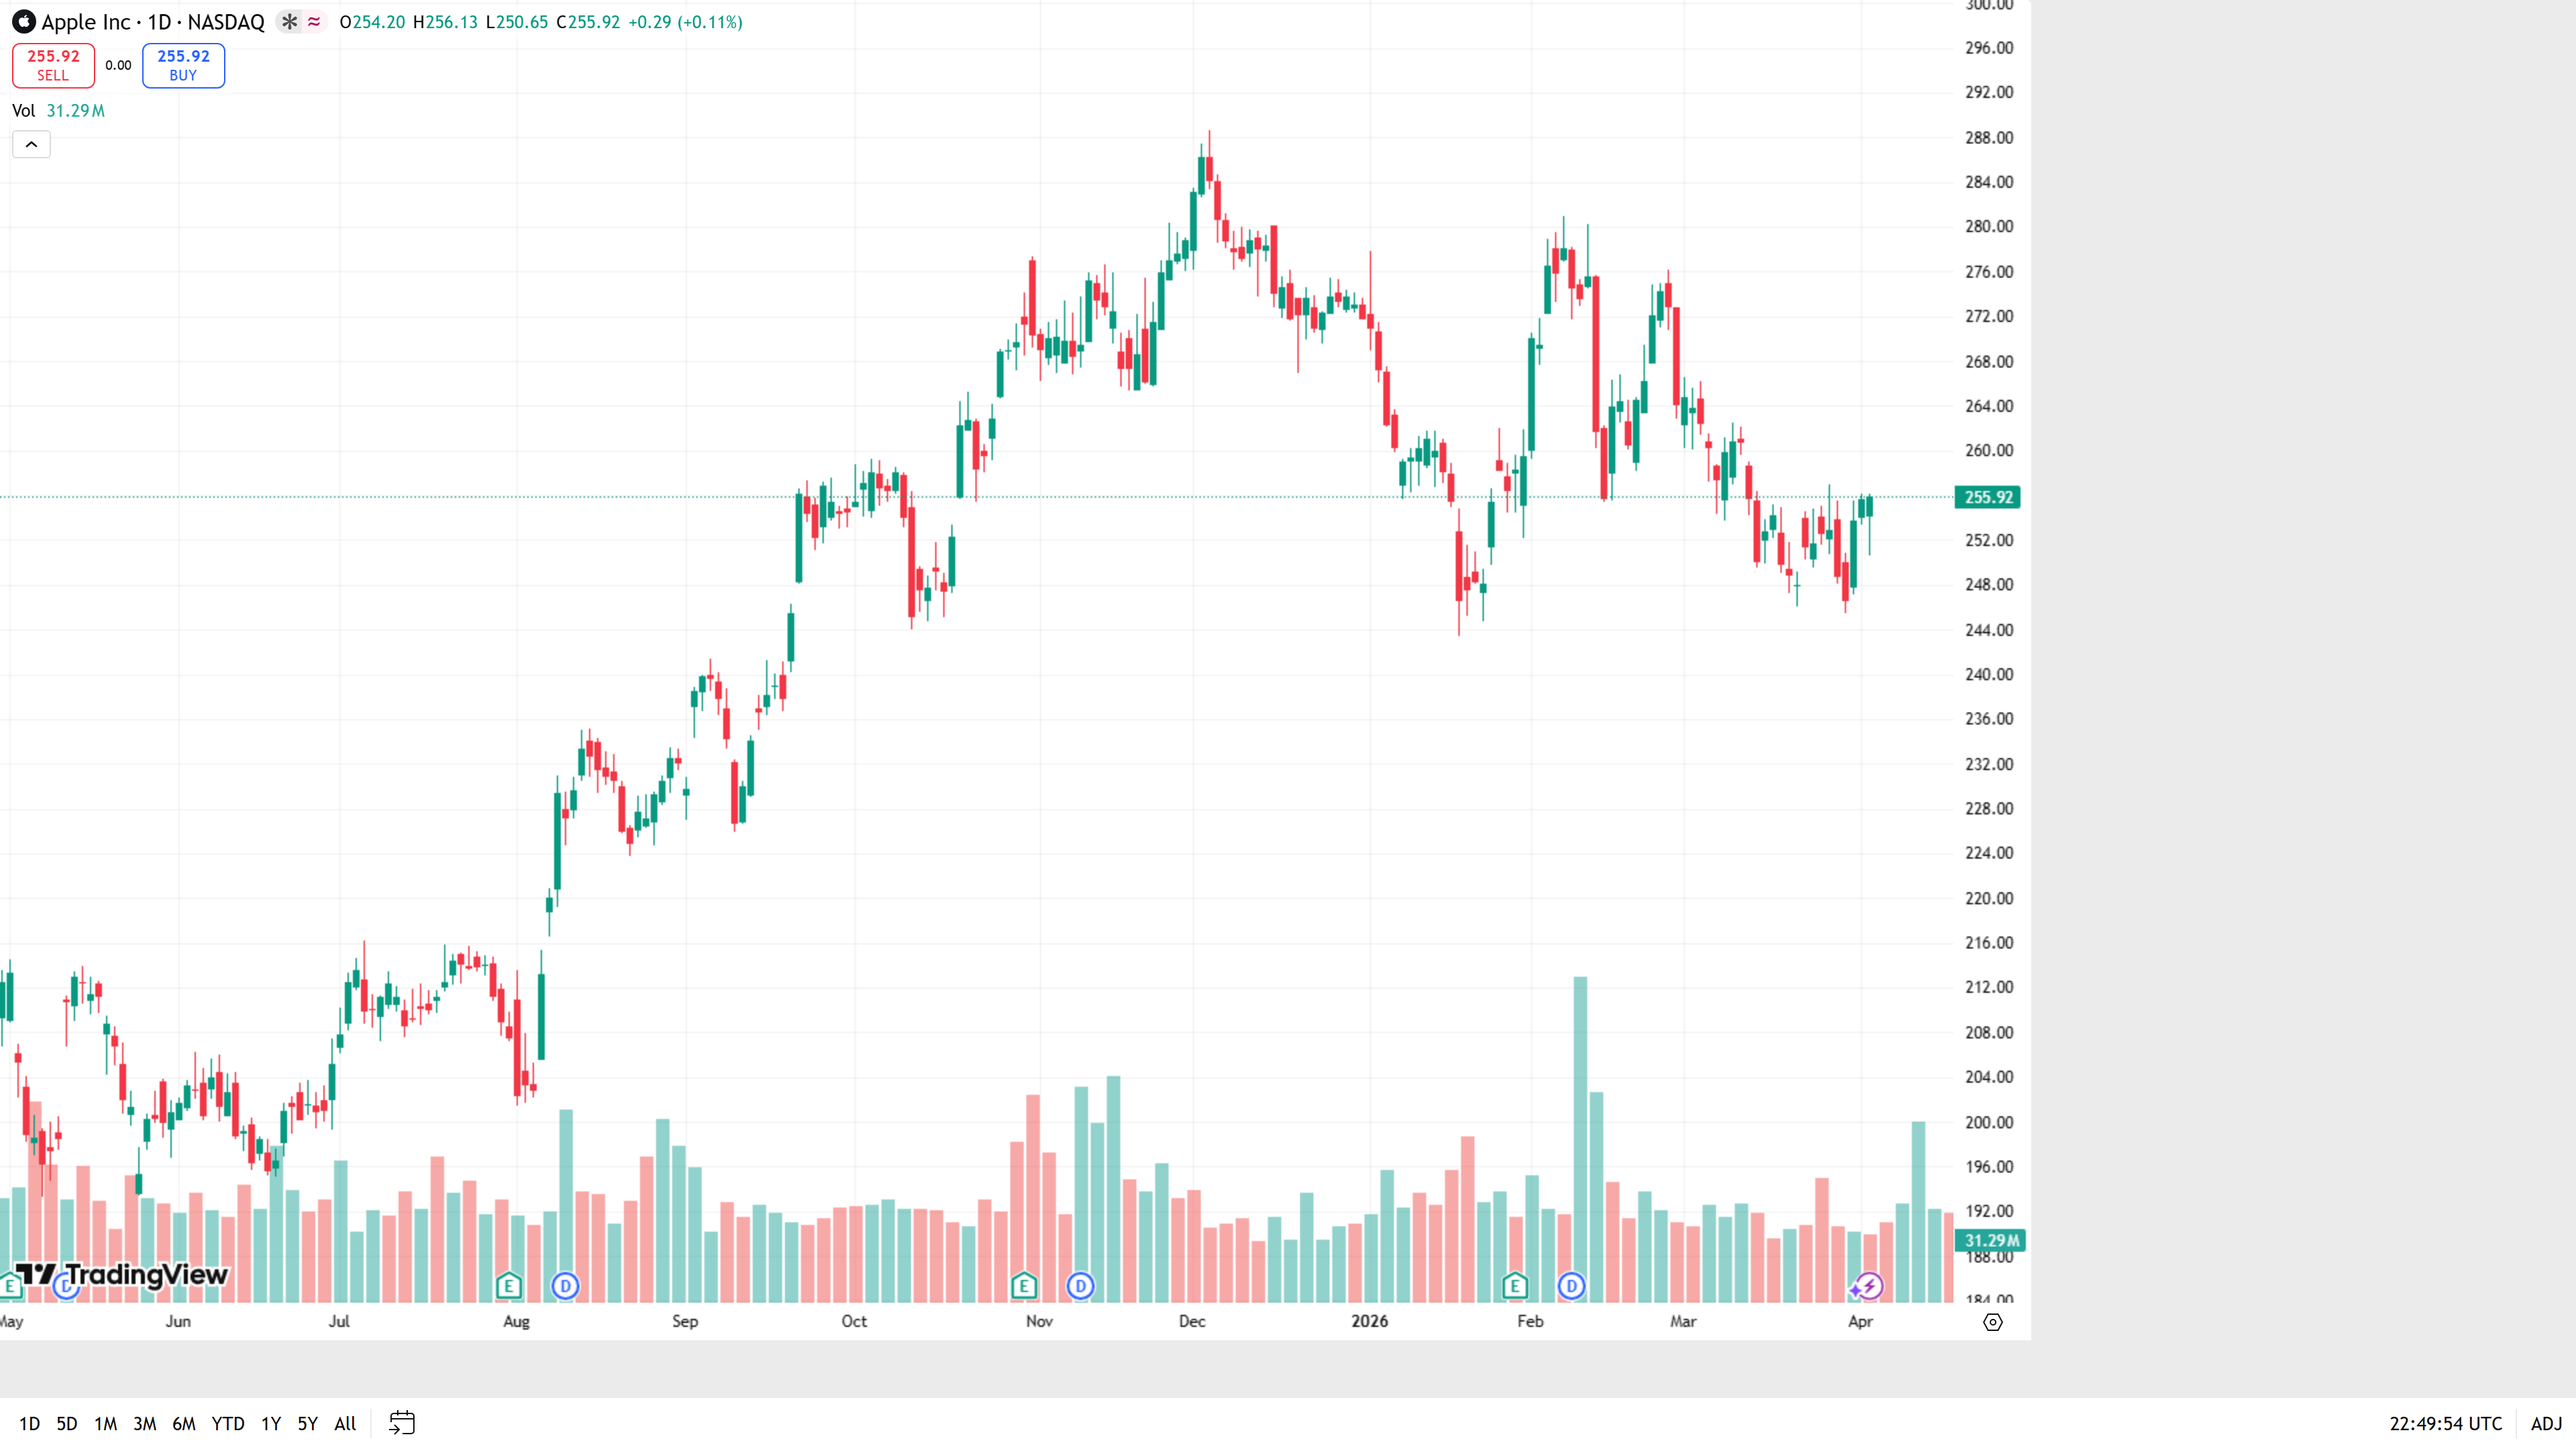
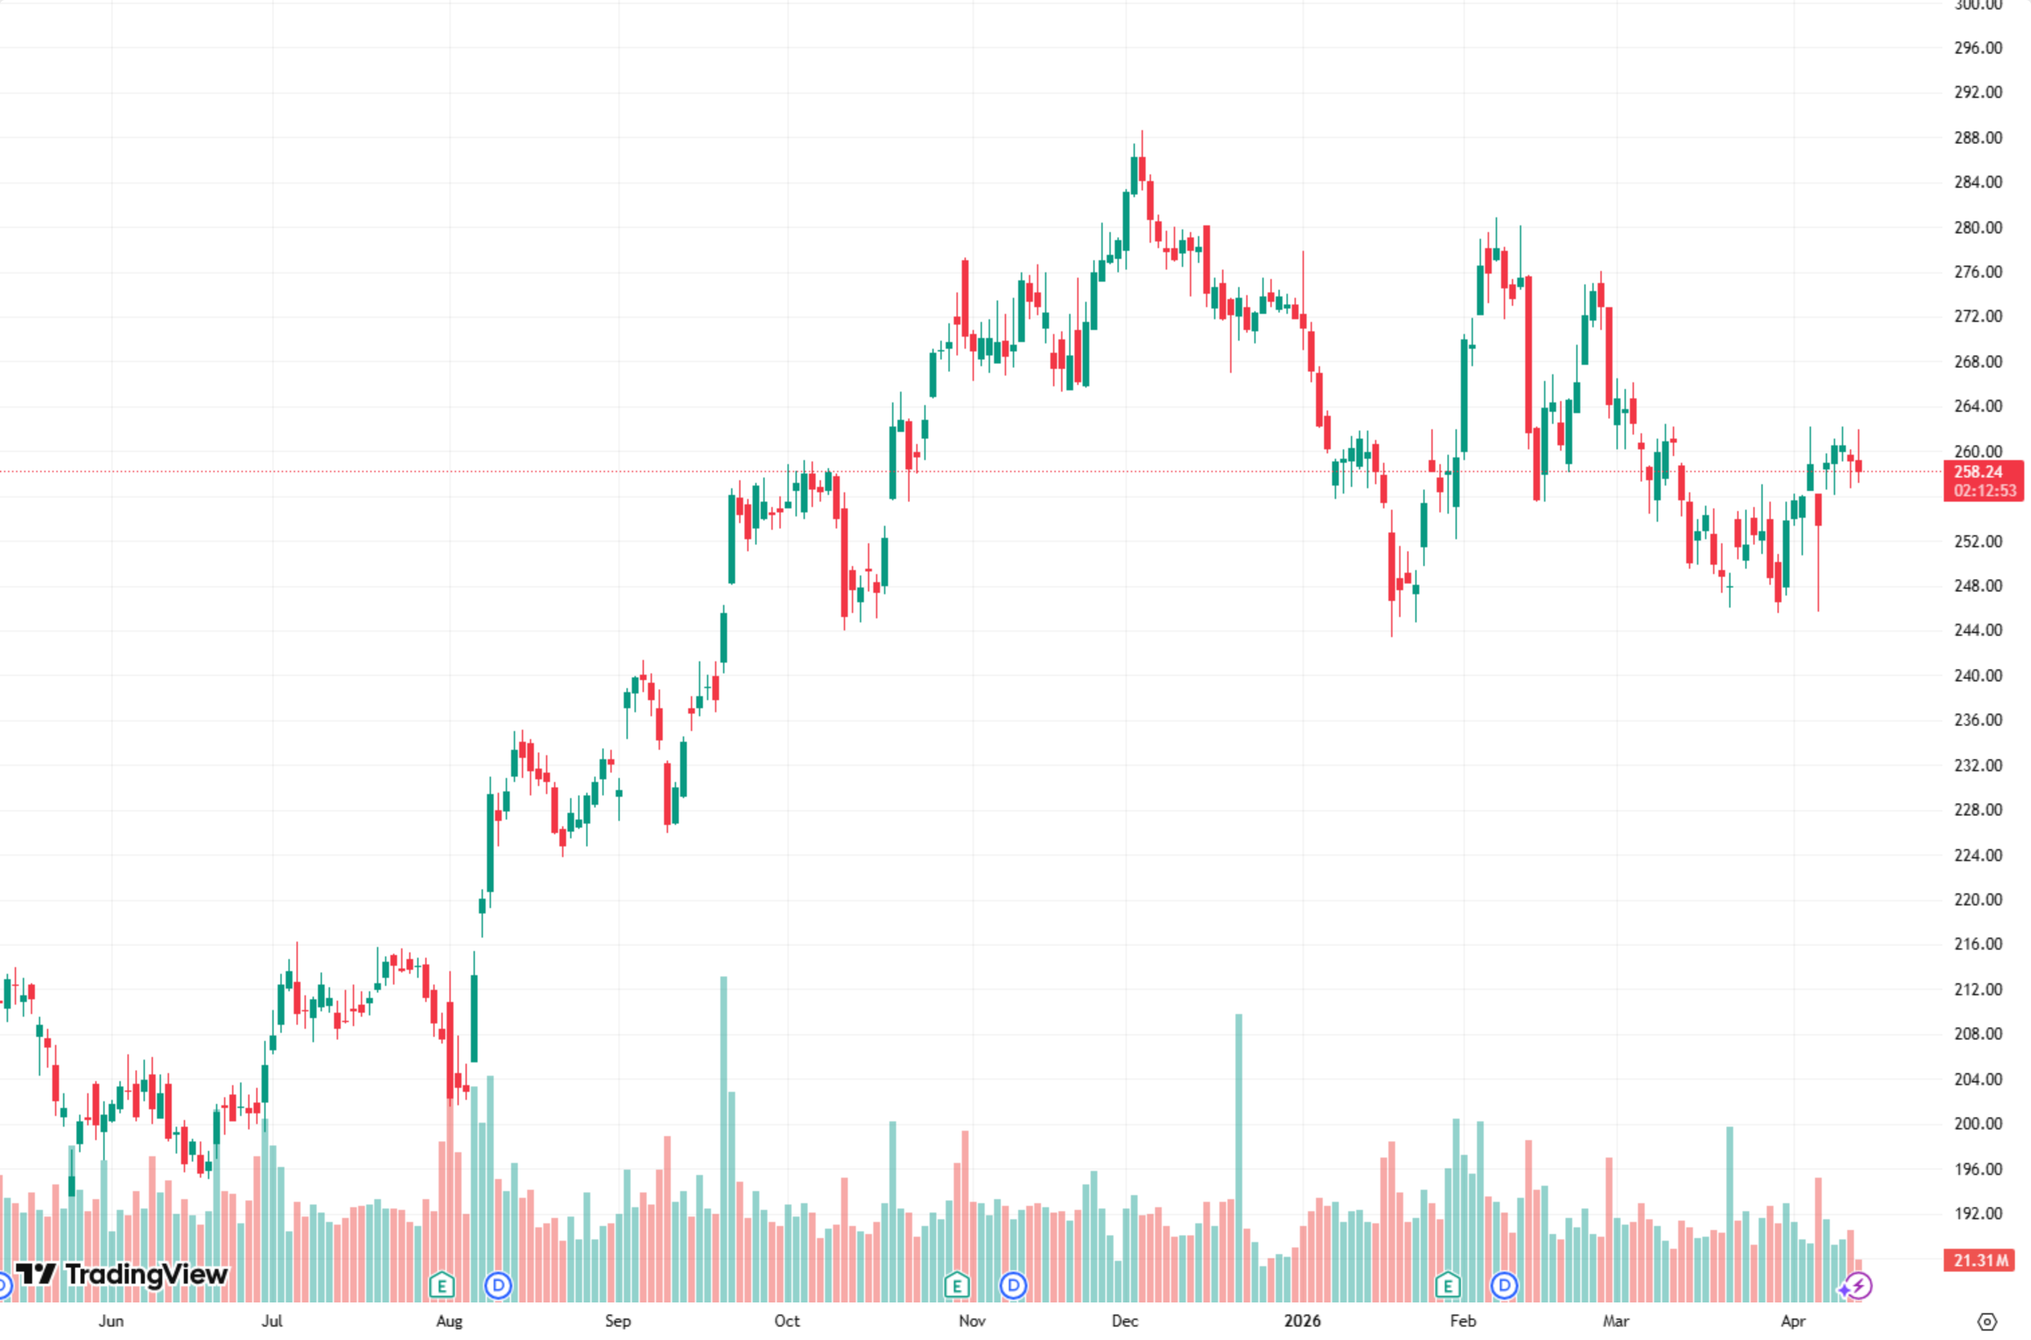
fixes ss , description, only ticker

diff --git a/app/services/screenshot.py b/app/services/screenshot.py
@@ -36,7 +36,7 @@ async def stop_browser():
         await _browser.close()
         _browser = None
     if _playwright:
-        await _playwright.__aexit__(None, None, None)
+        await _playwright.stop()
         _playwright = None
     logger.info("Playwright browser stopped")
 
@@ -85,47 +85,48 @@ async def take_screenshot(symbol: str) -> bytes | None:
 
             # Wait for chart to render and hide potential overlays
             try:
-                # Target the central chart area
-                chart_selector = ".layout__area--center"
+                # Target the chart container element directly
+                chart_selector = "[data-qa-id='chart-container']"
                 await page.wait_for_selector(chart_selector, timeout=12000)
 
-                # Hide sidebars, toolbars, and cookie banners to let chart expand
+                # Wait for chart canvas to be painted (not just empty/loading)
+                await page.wait_for_selector(
+                    "canvas[data-name='pane-canvas']", timeout=10000
+                )
+
+                # Brief pause for chart data to render on canvas
+                await page.wait_for_timeout(2000)
+
+                # Hide overlays (legend, buy/sell buttons, control bars)
+                # but keep the chart canvas and axes intact
                 await page.add_style_tag(content="""
-                    /* Hide surrounding UI components */
-                    .layout__area--top,
-                    .layout__area--left,
-                    .layout__area--right,
-                    .layout__area--bottom,
-                    .header-chart-panel,
-                    .footer-chart-panel,
-                    .tv-side-toolbar,
-                    #drawing-toolbar,
-                    .widgetbar-wrap,
-                    .chart-controls-bar,
+                    /* Legend with OHLC values */
+                    .legend-l31H9iuA,
+                    /* Buy/Sell buttons */
+                    .container-SXMXfs_Z,
+                    /* Pane control buttons */
+                    .paneControls-JQv8nO8e,
+                    /* Bottom control bar (zoom, scroll) */
+                    .control-bar-wrapper,
+                    /* Loading spinner */
+                    .tv-spinner,
+                    /* Floating toolbars */
                     .tv-floating-toolbar,
-                    .anchor-3Y_mXp_m,
-                    div[id^="sp_message_container"],
-                    .cookie-banner,
-                    #cookies-settings-bubble,
                     .overlap-manager,
                     #overlap-manager-root,
                     .tv-dialog-container,
                     .tv-dialog,
                     .toast-container,
-                    .closeButton-zLVm6B4t {
+                    /* Cookie banners */
+                    div[id^="sp_message_container"],
+                    .cookie-banner,
+                    #cookies-settings-bubble {
                         display: none !important;
-                    }
-
-                    /* Expand the central chart to full viewport */
-                    .layout__area--center {
-                        inset: 0 !important;
-                        width: 100% !important;
-                        height: 100% !important;
                     }
                 """)
 
-                # Give it a moment to reflow
-                await page.wait_for_timeout(1000)
+                # Brief reflow after hiding elements
+                await page.wait_for_timeout(500)
 
                 chart_element = page.locator(chart_selector)
                 screenshot = await chart_element.screenshot(

diff --git a/app/services/discord_svc.py b/app/services/discord_svc.py
@@ -45,23 +45,27 @@ async def _do_post(
     screenshot_bytes: bytes | None,
     app_name: str,
 ) -> DiscordResult:
-    # Build embed
+    # Message text appears ABOVE the embed as regular content
+    content = message.strip()
+    if not screenshot_bytes:
+        content += "\n⚠ *(Chart preview unavailable)*"
+
+    # Embed is just the chart image + footer
     embed = {
         "title": symbol or "Alert",
-        "description": message,
         "color": 0x5865F2,  # Discord blurple
         "footer": {"text": f"Sent via {app_name}"},
     }
 
     if screenshot_bytes:
         embed["image"] = {"url": "attachment://chart.png"}
-    else:
-        embed["description"] += "\n\n⚠ *(Chart preview unavailable)*"
+
+    payload = {"content": content or None, "embeds": [embed]}
 
     form = aiohttp.FormData()
     form.add_field(
         "payload_json",
-        json.dumps({"embeds": [embed]}),
+        json.dumps(payload),
         content_type="application/json",
     )
 
@@ -90,7 +94,7 @@ async def _do_post(
         form2 = aiohttp.FormData()
         form2.add_field(
             "payload_json",
-            json.dumps({"embeds": [embed]}),
+            json.dumps(payload),
             content_type="application/json",
         )
         if screenshot_bytes:

diff --git a/app/services/queue_svc.py b/app/services/queue_svc.py
@@ -245,7 +245,7 @@ async def _process_alert(alert: AlertLog):
     for wh in webhooks:
         res = await post_to_discord(
             wh.url,
-            symbol=parsed.symbol or "Unknown",
+            symbol=parsed.ticker or parsed.symbol or "Unknown",
             message=parsed.message,
             screenshot_bytes=screenshot,
             app_name=settings.app_name,

diff --git a/context.md b/context.md
@@ -1,0 +1,54 @@
+# Project Context: ChartAlert
+
+## Architecture Overview
+ChartAlert is a Python-based SaaS application built with **FastAPI**. It follows a decoupled architecture designed for scalability and reliability, separating request handling from heavy background processing.
+
+### Multi-Service Design
+The application is designed to run in different modes (`RUN_MODE`):
+- **API Mode (`api`)**: Handles user authentication, dashboard UI, billing integrations, and webhook ingestion.
+- **Worker Mode (`worker`)**: Processes the background queue, performs chart screenshots using Playwright, and handles Discord delivery.
+- **Combined Mode (`both`)**: Runs both API and Worker in a single process (default for local development).
+
+## Tech Stack
+- **Backend Framework**: FastAPI (Asynchronous Python)
+- **Database**: PostgreSQL with SQLAlchemy (asyncio)
+- **Migrations**: Alembic
+- **Task Queue**: In-memory queue for dev, Redis-backed for production
+- **Screenshot Engine**: Playwright (Headless Chromium)
+- **Billing**: LemonSqueezy (recently migrated from Stripe/Gumroad)
+- **Containerization**: Docker & Docker Compose
+- **Logging**: Structlog for structured JSON logging
+
+## Core Components
+
+### 1. Webhook Ingestion (`app/routes/webhook.py`)
+Receives `POST` requests from TradingView. It validates the user's `webhook_token`, checks daily limits, and queues the alert for processing.
+
+### 2. Screenshot Service (`app/services/screenshot_svc.py`)
+The heart of the "Worker". It navigates to TradingView charts, handles the "Buy/Sell" visualization, and captures the screenshot. It uses a concurrency-limited pool of browser instances.
+
+### 3. Discord Integration (`app/services/discord_svc.py`)
+Handles the delivery of alerts and screenshots to Discord via webhooks. Supports multi-webhook routing per user.
+
+### 4. Billing & Subscription (`app/routes/billing.py`)
+Integrates with LemonSqueezy to handle checkouts and webhooks for subscription management (Pro vs. Free plans).
+
+### 5. Trial System (`app/models/user.py`)
+A custom trial system that grants "Pro" access for a one-week period (`trial_expires_at`).
+
+## Repository Structure
+- `app/`: Core application code.
+    - `models/`: Database schemas (User, Alert, UserWebhook).
+    - `routes/`: API endpoints (Auth, Dashboard, Billing, Webhook).
+    - `services/`: Specialized logic (Screenshot, Queue, Discord, LemonSqueezy).
+    - `static/` & `templates/`: HTML/CSS for the user dashboard.
+- `alembic/`: Database migration history.
+- `scripts/`: Operational scripts (e.g., granting trials, database cleanup).
+- `tests/`: Pytest suite for API and service validation.
+- `Dockerfile` & `docker-compose.yml`: Infrastructure as code.
+
+## Current Project State
+- **Billing**: Successfully migrated to LemonSqueezy.
+- **Features**: Multi-webhook support and Trial system are fully implemented.
+- **Reliability**: Queue system ensures that momentary bursts in TradingView alerts don't overwhelm the screenshot service.
+- **Deployment Ready**: Configured for VPS deployment using Docker and Caddy for SSL termination.

diff --git a/idea.md b/idea.md
@@ -1,0 +1,34 @@
+# ChartAlert: The Ultimate TradingView to Discord Bridge
+
+## The Vision
+**ChartAlert** is a SaaS platform designed to transform cold, text-only TradingView alerts into rich, actionable visual notifications in Discord. It bridges the gap between signal generation and signal visualization, providing traders with the immediate context they need to make decisions.
+
+## The Problem
+Standard TradingView alerts are often limited to basic text or email notifications. For traders following complex strategies or managing multiple charts, a text alert like "BTCUSD Bullish Breakout" lacks necessary context:
+- What did the candle look like?
+- Was there a volume spike?
+- Where were the support/resistance levels at that exact moment?
+
+Manually opening a chart after receiving an alert takes time—time that can cost money in volatile markets.
+
+## The Solution
+ChartAlert automates the entire process:
+1. **Receive**: A TradingView alert hits a unique user webhook.
+2. **Visualize**: A background worker spins up a headless browser (Playwright), navigates to the specific chart/symbol/exchange, and captures a high-resolution screenshot.
+3. **Notify**: The screenshot, combined with the alert message, is instantly posted to one or more Discord channels.
+
+## Key Features
+- **Visual Alerts**: Real-time chart screenshots included with every notification.
+- **Multi-Channel Delivery**: Users can configure multiple Discord webhooks to route different alerts to different channels or groups.
+- **Flexible Configuration**: Support for custom symbols, exchanges, and timezones to ensure the screenshot matches the user's trading setup.
+- **Tiered SaaS Model**: 
+    - **Free Tier**: Limited daily alerts for casual traders.
+    - **Pro Tier**: High-volume alerts for professionals and signal providers.
+    - **Trial System**: 1-week full access trials to convert free users.
+- **Admin Control**: Robust admin dashboard for user and subscription management.
+
+## Business Opportunity
+ChartAlert is positioned for:
+- **Individual Traders**: Who want a cleaner, more visual way to monitor their setups.
+- **Trading Communities**: Signal providers can professionalize their Discord servers by providing high-quality visual signals to their members.
+- **Strategy Developers**: Who need a visual log of how their strategies perform in real-time.
